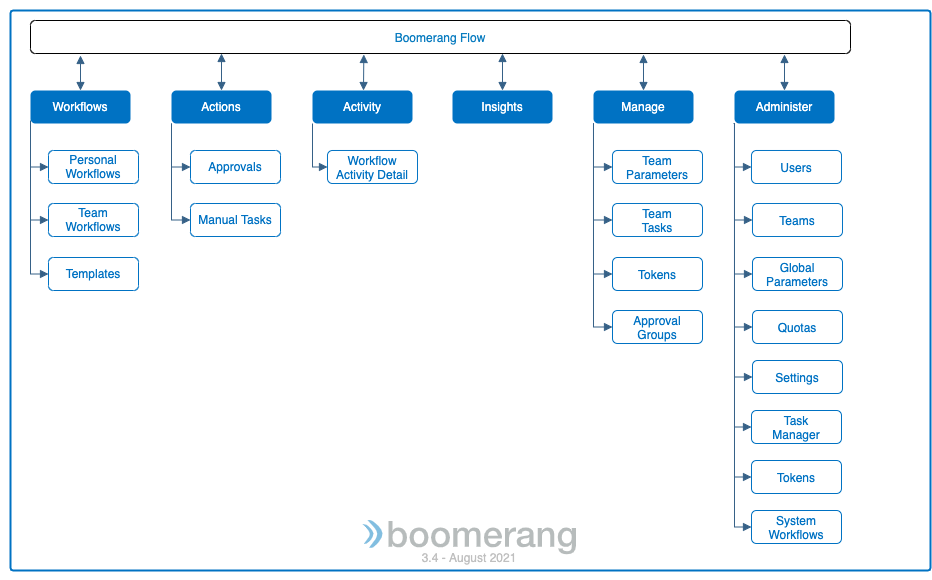
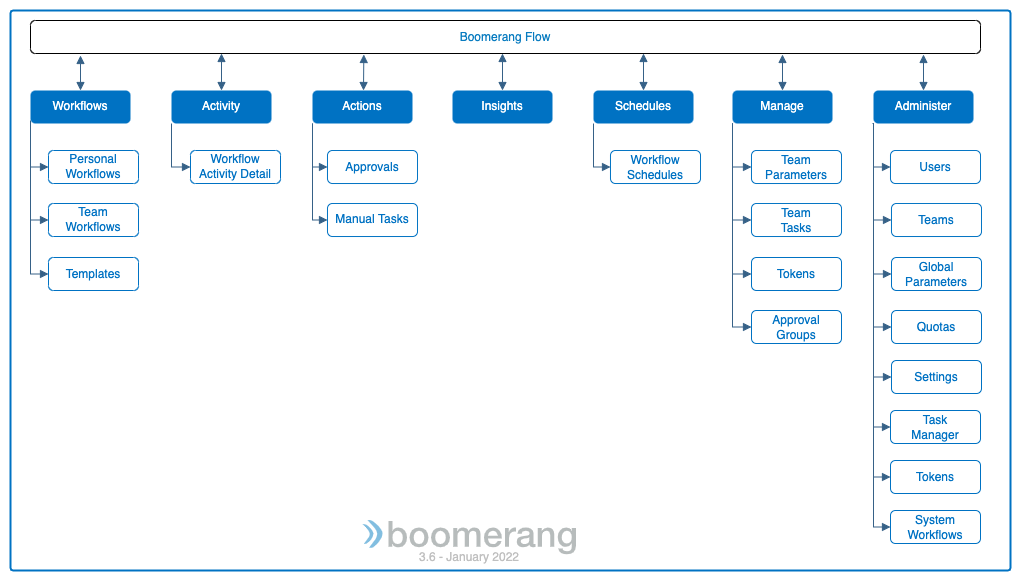
Initial 3.6 restructure and content

diff --git a/contentConfig.js b/contentConfig.js
@@ -27,12 +27,6 @@ const config = {
           path: '/docs/boomerang-flow/introduction/overview',
         },
         {
-          title: 'Architecture',
-          description:
-            'Provides the architecture, the patterns, technologies, and implementation.',
-          path: '/docs/boomerang-flow/architecture/overview',
-        },
-        {
           title: 'Getting to Know',
           description: 'Familiarize yourself with the functionality available',
           path: '/docs/boomerang-flow/getting-to-know/workflows',
@@ -41,6 +35,12 @@ const config = {
           title: 'How to Guide',
           description: 'Deep dive into how to perform different functions.',
           path: '/docs/boomerang-flow/how-to-guide/managing-workflows',
+        },
+        {
+          title: 'Architecture',
+          description:
+            'Provides the architecture, the patterns, technologies, and implementation.',
+          path: '/docs/boomerang-flow/architecture/overview',
         },
         {
           title: 'Installing',

diff --git a/content/boomerang-flow/3.6.0/introduction/01.overview.md b/content/boomerang-flow/3.6.0/introduction/01.overview.md
@@ -5,7 +5,7 @@ index: 1
 
 # Overview
 
-Modernize and supercharge your Workflow automation with a powerful cloud native event driven Workflow automation tool built on top of Kubernetes<sup>®</sup>. It enables new ways of approaching your business Tasks or combine with existing tools to extend your current workloads.
+Modernize and supercharge your Workflow automation with a powerful no-code event driven Workflow automation tool built cloud native on top of Kubernetes<sup>®</sup>. It enables new ways of approaching your business Tasks or combine with existing tools to extend your current workloads.
 
 Supporting the no-code paradigm with out-of-the-box Tasks, Boomerang Flow offers extensibility to bring your own Tasks, while providing custom container support. 
 
@@ -15,9 +15,9 @@ Create your next Workflow to produce an end-to-end process that executes a serie
 
 ## Benefits
 
+* A no-code drag-and-drop UI editor for creating Workflows.
 * Cloud native from the ground up, with no overhead from legacy implementations.
 * Cloud agnostic and can be run in any Kubernetes environment.
-* A drag-and-drop UI editor for creating Workflows.
 * Events based on [CloudEvents](https://cloudevents.io) and [NATS](https://nats.io).
 * Triggers in any of four easy methods: manual, webhook, schedule, or custom event.
 * Parallel processing of Tasks, decisions, dynamic storage, and parameterization. 
@@ -32,6 +32,14 @@ Create your next Workflow to produce an end-to-end process that executes a serie
 - Workflows are a series of Tasks connected together.
 - Workflows form and are executed as a directed acyclic graph (DAG).
 
+### Tasks
+
+Tasks can be split into three distinct types. See [Getting To Know Tasks](/docs/boomerang-flow/getting-to-know/Tasks) for more information.
+
+* System Tasks: are logic based Tasks that influence the DAG.
+* Template Tasks: are Tasks that perform a function and can be verified out-of-the box, are community-provided, and managed through Task Manager (in the Admin interface).
+* Custom Task: a custom Task allows a bring-your-own container to run in place of a Task and executes any custom logic.
+
 ## Wait, what is a DAG again?
 
 - The core concept of Flow. It is how we represent Tasks and their relationships and dependencies that determine how a Workflow executes.
@@ -40,7 +48,6 @@ Create your next Workflow to produce an end-to-end process that executes a serie
 - It's acyclic. You can't end end up where you started in an execution.
 - DAGs have a number of applications across a number of disciplines. For our purposes, it is used for scheduling the Tasks in a Workflow.
 - Learn some more about [graph theory](https://en.wikipedia.org/wiki/Graph_theory) and [DAGs](https://en.wikipedia.org/wiki/Directed_acyclic_graph) via Wikipedia. 
-
 
 ## Use Cases
 
@@ -55,24 +62,36 @@ There are plenty of ways to use Boomerang Flow, it is all about save people time
 
 ## Navigation
 
-* Workflows - Create, view, and manage your Workflows from a centralized location. 
-* Activity - View the status, logs, outputs, and run times of your recent Workflow executions.
-* Actions - Approve executions and peform manual tasks.
-* Editor - Use the advanced visual drag-and-drop Workflow Editor to define triggers, set options, create properties, and link the Workflow Tasks together.
-* Insights - View powerful metrics and real-time statistics on Workflow executions over time, showing peak execution periods, average run times, and percentage of success and failures.
+The menu is the primary navigation tool for Boomerang Flow. It is located to the top left in the header.
 
-See [Navigating](/docs/boomerang-flow/introduction/navigating) for more information.
+- [Workflows](/docs/boomerang-flow/getting-to-know/workflows) - create, view, and manage your personal and team workflows from a centralized location.
+- [Activity](/docs/boomerang-flow/getting-to-know/activity) - view the real-time status, logs, outputs, and run times of your workflow activity past and present as well as diving deep into the individual workflows.
+- [Actions](/docs/boomerang-flow/getting-to-know/actions) - access your manual actions and respond to needed approvals.
+- [Insights](/docs/boomerang-flow/getting-to-know/insights) - view metrics and statistics on Workflow executions over time, showing peak execution periods, average run times, and percentage of success and failures.
+- [Schedules](/docs/boomerang-flow/getting-to-know/schedules) - view, create, and manage your Workflow Schedules with a Calendar based view.
+- **Manage** - provides ability for teams to set set team parameters, define team tasks, create API tokens, and define approval groups.
+- **Administer** - provides ability for Administrators to control the instance of Boomerang Flow.
 
-## Tasks
+![Boomerang Flow Navigation](./assets/img/navigating.png)
 
-Tasks can be split into three distinct types. See [Getting To Know Tasks](/docs/boomerang-flow/getting-to-know/Tasks) for more information.
+## Supporting Functionality
 
-* System Tasks: are logic based Tasks that influence the DAG.
-* Template Tasks: are Tasks that perform a function and can be verified out-of-the box, are community-provided, and managed through Task Manager (in the Admin interface).
-* Custom Task: a custom Task allows a bring-your-own container to run in place of a Task and executes any custom logic.
+The following documentation contains information for the usage of Boomerang Flow.
 
-## IBM Services Essentials
+- [Workflow Editor](/docs/boomerang-flow/getting-to-know/workflow-editor) - visually draw and edit your Workflow with drag-and drop Tasks from the palette.
+- [Quotas](/docs/boomerang-flow/getting-to-know/quotas) - allocate a team quotas for executing and managing Workflows.
+- [Parameters](/docs/boomerang-flow/getting-to-know/parameters) - input and output to your workflow or tasks to help pass information.
 
-As Boomerang Flow was contributed to open source, and continues to be sponsored by IBM, integration is enabled with IBM Services<sup>®</sup> Essentials. Flow is supported out-of-the box, providing additional enterprise capabilities such as audit logging, consent management, and user and team role management via the broader IBM platform. There are also Tasks available that rely on platform services. 
+## Sponsored Organizations
 
-At installation time, you can configure whether to run Boomerang Flow in standalone mode or integrated to IBM Services Essentials.
+### IBM Consulting Essentials
+
+As Boomerang Flow was contributed to open source, and continues to be sponsored by IBM, integration is enabled with IBM Consulting<sup>®</sup> Essentials. Flow is supported out-of-the box, providing additional enterprise capabilities such as audit logging, consent management, and user and team role management via the broader IBM platform. There are also Tasks available that rely on platform services. 
+
+At installation time, you can configure whether to run Boomerang Flow in standalone mode (default) or integrated to IBM Consulting Essentials.
+
+### Flowabl.io
+
+The team behind Flowabl are some of the original creators of Boomerang Flow and continue to support the Open Source community, as well as providing the [Try Me](https://try.useboomerang.io/flow/apps/flow) environment.
+
+They also provide a free tier of their managed service and benefits for the open source community.

diff --git a/content/boomerang-flow/3.6.0/installing/01.installing.md b/content/boomerang-flow/3.6.0/installing/01.installing.md
@@ -7,9 +7,45 @@ index: 1
 
 Boomerang Flow is packaged as a Helm<sup>®</sup> 3 chart with the values documented in the chart. Please make sure to read the [prerequisites](/docs/boomerang-flow/installing/pre-requisites) prior to installing.
 
+## Prerequisites
+
+You are expected to have one of the supported Kubernetes<sup>®</sup> platforms available with the additional software requirements presented in the following sections.
+
+Ensure you have read and can meet all the dependencies listed in the [Application Architecture](/docs/boomerang-flow/architecture/application).
+
+### Helm 3
+
+Ensure you have Helm<sup>®</sup> 3 installed, as Boomerang Flow is packaged with Helm.
+
+### Kubernetes
+
+Ensure you have read and can meet all the dependencies listed in the [Infrastructure Architecture](/docs/boomerang-flow/architecture/infrastructure).
+
+### MongoDB
+
+MongoDB<sup>®</sup> is a mandatory dependency that needs to be installed prior. We highly recommend the [MongoDB Helm chart from Bitnami](https://bitnami.com/stack/mongodb/helm).
+
+We recommend that you install and create the Persistent Volume Claim (PVC) with `retain`, with a minimum recommended storage of `2Gi`.
+
+### Tekton
+
+Tekton<sup>®</sup> is another mandatory dependency that needs to be installed for Flow to properly function. The best way is to use the [CD Foundation Tekton Helm Chart](https://github.com/cdfoundation/tekton-helm-chart). The Tekton version can be found in the [Application Architecture](/docs/boomerang-flow/architecture/application).
+
+### NATS Jetstream
+
+If you want to enable eventing, NATS Jetstream must be available to act as the messaging system. You can install NATS Jetstream via its [Helm chart found here](https://artifacthub.io/packages/helm/nats/nack).
+
+### Cert Manager [Optional]
+
+We recommend installing / using [Cert Manager](https://cert-manager.io/docs/installation/helm/) to generate your TLS certificates.
+
+### IBM Consulting Essentials
+
+When standalone mode is disabled, integration to the Core services provided by IBM<sup>®</sup> Consulting Essentials is required.
+
 ## Installation steps
 
-To get started quickly, install into a Kubernetes<sup>®</sup> cluster of 1.13+ via Helm, using the following commands:
+To get started quickly, install into a Kubernetes<sup>®</sup> cluster via Helm, using the following commands:
 
 **Step 1**
 

diff --git a/content/boomerang-flow/3.6.0/introduction/02.getting-started.md b/content/boomerang-flow/3.6.0/introduction/02.getting-started.md
@@ -1,15 +1,13 @@
 ---
 title: Getting Started
-index: 3
+index: 2
 ---
 
 # Getting Started
 
-After gaining access, all users will be presented with the Personal Workflows screen. This is your sandbox and allows you to create workflows, as long as you are within your quotas.
+After gaining access, users will be presented with the Personal Workflows screen. This is your sandbox and allows you to create workflows, as long as you are within your quotas.
 
-You can start creating Personal Workflows using the **Create a new Workflow** tile on the Workflows screen.
-
-This opens a modal that allows you to **Start from scratch** or **Import a Workflow**.
+You can start creating Personal Workflows using the **Create a new Workflow** tile on the Workflows screen. This opens a modal that allows you to **Start from scratch** or **Import a Workflow**.
 
 ## Workflow Templates
 
@@ -22,7 +20,7 @@ Teams can be created in two ways:
 1. By a user with Administrator rights, who can then map users to a team.
 2. Through the APIs
 
-> When integrated with IBM Services<sup>®</sup> Essentials, Boomerang Flow integrates with your Boomerang teams. Ensure you have access to a team or create a new team and request access to Boomerang Flow.
+> When integrated with IBM Consulting<sup>®</sup> Essentials, Boomerang Flow integrates with your Essentials teams. Ensure you have access to a team or create a new team and request access to Boomerang Flow.
 
 ## Need help?
 

diff --git a/content/boomerang-flow/3.6.0/getting-to-know/05.schedules.md b/content/boomerang-flow/3.6.0/getting-to-know/05.schedules.md
@@ -1,0 +1,40 @@
+---
+title: Insights
+index: 4
+---
+
+# Insights
+
+View powerful metrics and real-time statistics on Workflow executions over time, showing peak execution periods, average run times, and percentage of success and failures.
+
+> Note: Insights is currently a team based feature and doesn't provide any information about Personal Workflows
+
+To access, select **Insights** from the menu in the upper left corner of the page.
+
+![Insights Menu](./assets/img/insights-menu.png)
+
+## Filters
+
+You can filter by a combination of Team and Workflow as well as adjust the time period.
+
+## Metrics
+
+Insights includes the following metrics:
+
+- number of executions
+    - Total
+    - By top 5 Workflows
+- runtime durations
+    - Median
+    - Minimum
+    - Maximum
+    - Average
+- status percentage breakdown
+- peak execution periods
+- plot of Execution time
+
+> Note: narrowing the filters to a particular workflow will change some of the graphs
+
+_In the future_, we aim to show execution cost and performance related information.
+
+![Designer Overview](./assets/img/insights.png)

diff --git a/content/boomerang-flow/3.6.0/architecture/05.eventing.md b/content/boomerang-flow/3.6.0/architecture/05.eventing.md
@@ -188,3 +188,11 @@ The entire CloudEvent data attribute becomes a Workflow input parameter called `
 **Wait For Event Result Payload Parameter**
 
 The entire CloudEvent data attribute becomes a Task result parameter called `eventPayload` that you can access in other Tasks following the result parameter reference.
+
+## Boomerang Eventing Library
+
+To facilitate eventing through NATS, all eventing-related services have Boomerang Eventing Library ([`lib.eventing`](https://github.com/boomerang-io/lib.eventing)) integrated - a Maven plugin that supports event streaming through NATS Jetstream.
+
+This plugin has been built on top of [`jnats`](https://github.com/nats-io/nats.java) client library, targeting an easier integration with NATS Jetstream for Boomerang Flow, as well as for external applications that want to publish and subscribe to Flow-related events from Boomerang.
+
+See the GitHub repo for [Boomerang Eventing Library](https://github.com/boomerang-io/lib.eventing) for more details and documentation.

diff --git a/content/boomerang-flow/3.6.0/getting-to-know/08.tasks.md b/content/boomerang-flow/3.6.0/getting-to-know/08.tasks.md
@@ -207,7 +207,7 @@ Once the newly created application is installed in your workspace, the UI will s
 | **Remove Member from Team**          | Removes a team membership between a user and a GitHub team, within an organization.                                                                                                                                                          |                                                                    |
 
 
-### IBM Services Essentials
+### IBM Consulting Essentials
 
 | Task Name                        | Description                                                                                                                        | Result Parameters |
 | -------------------------------- | ---------------------------------------------------------------------------------------------------------------------------------- | ----------------- |

diff --git a/content/boomerang-flow/3.6.0/architecture/01.infrastructure.md b/content/boomerang-flow/3.6.0/architecture/01.infrastructure.md
@@ -56,3 +56,11 @@ All Tasks run with a data drive (`/data`) specific to that Task and based on [Ku
 ### Pod Anti-affinity
 
 If dedicated nodes are enabled, a pod-soft anti-affinity feature is also enabled to ensure that attempts are made to balance workers across nodes as best as possible.
+
+### Image Policies
+
+If you are implementing a Kubernetes cluster, which uses ClusterImagePolicy or ImagePolicy, you may need to add `docker.io/boomerangio/*:*` to your policies to be able to retrieve the images.
+
+### Network
+
+Supported for use with IPv4 networks only.

diff --git a/content/boomerang-flow/3.6.0/introduction/04.known-issues.md b/content/boomerang-flow/3.6.0/introduction/04.known-issues.md
@@ -1,11 +1,11 @@
 ---
 title: Known Issues & Limitations
-index: 5
+index: 4
 ---
 
 # Known Issues & Limitations
 
-- Audit and tracing are not currently working for the Listener service when connected to IBM Services<sup>®</sup> Essentials.
+- Audit and tracing are not currently working for the Listener service when connected to IBM Consulting<sup>®</sup> Essentials.
 
 ## Tasks & Task Manager
 

diff --git a/content/boomerang-flow/3.6.0/architecture/03.security.md b/content/boomerang-flow/3.6.0/architecture/03.security.md
@@ -75,7 +75,7 @@ Authorization is split into Global roles and also Team Entitlements.
 
 ## Audit
 
-Only available when integrated to IBM Services Essentials.
+Only available when integrated to IBM Consulting Essentials.
 
 ## SSL certificates
 

diff --git a/content/boomerang-flow/3.6.0/introduction/05.faq.md b/content/boomerang-flow/3.6.0/introduction/05.faq.md
@@ -1,6 +1,6 @@
 ---
 title: Frequently Asked Questions
-index: 6
+index: 5
 ---
 
 # Frequently asked questions

diff --git a/content/boomerang-flow/3.6.0/introduction/03.whats-new.md b/content/boomerang-flow/3.6.0/introduction/03.whats-new.md
@@ -1,6 +1,6 @@
 ---
 title: What's New
-index: 4
+index: 3
 ---
 
 # What's new
